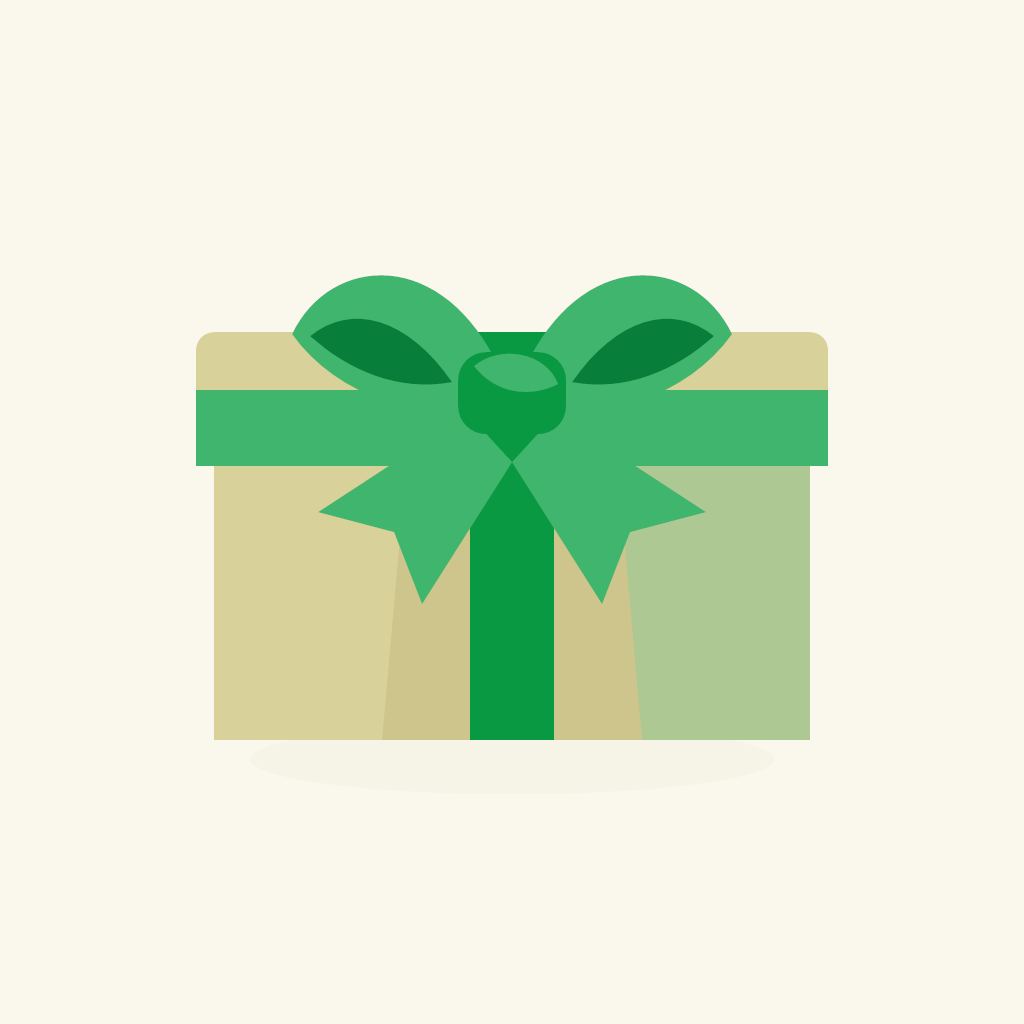
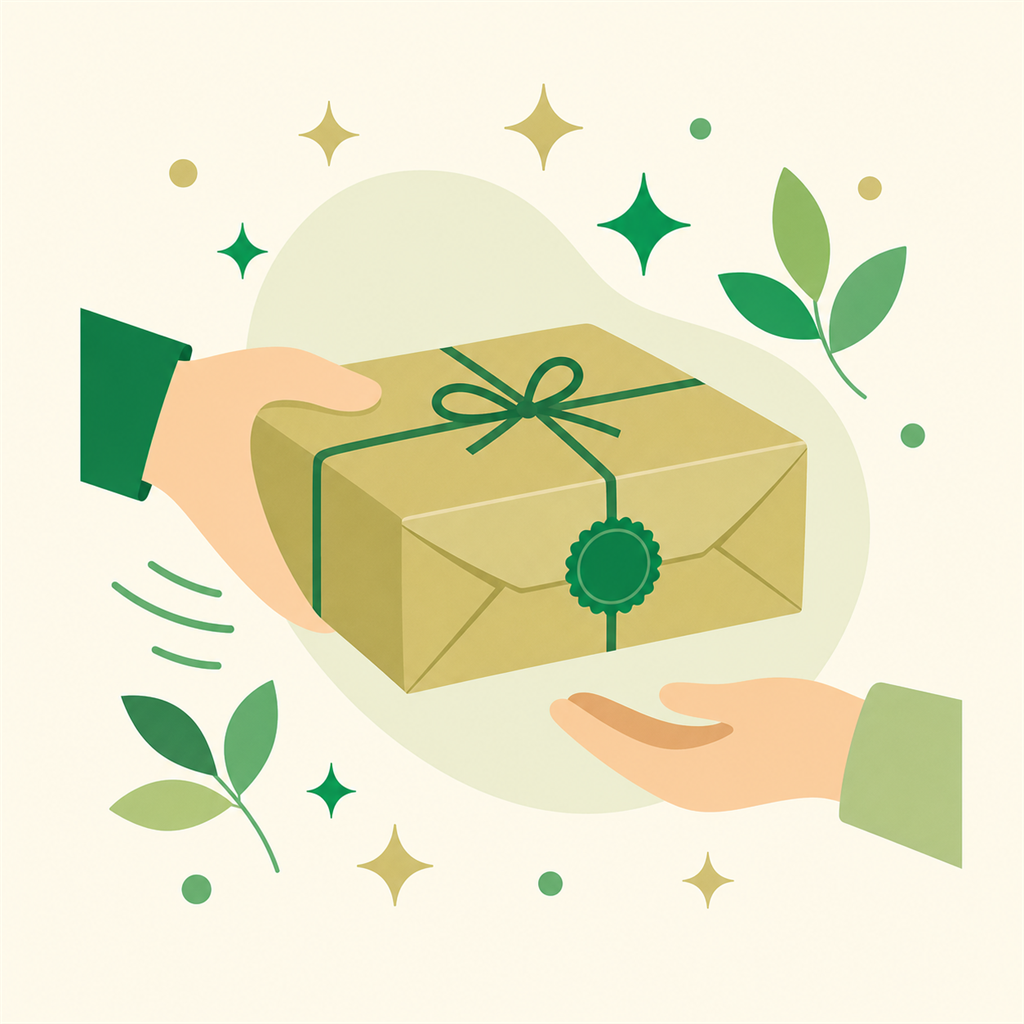
横展開ウェーブ2(06-10): 利用フロー4化(STEP4再生可能)＋モック文字縮小＋仕組み番号→AI画像 ＋一時整理/アイコン案 split 3/3
Split from ebdc506 to keep each GitHub push request smaller. Approx blob payload: 16.26 MB.

diff --git a/lp_variants/10_studio_design/index.html b/lp_variants/10_studio_design/index.html
@@ -111,21 +111,21 @@ h1,h2,h3,h4,p,figure{margin:0;}
 .phone .notch{position:absolute;top:8px;left:50%;transform:translateX(-50%);width:96px;height:20px;background:#0a0a0f;border-radius:0 0 14px 14px;z-index:5;}
 .hero-mock::after{content:"";position:absolute;bottom:-26px;left:50%;transform:translateX(-50%);width:230px;height:36px;background:radial-gradient(ellipse,rgba(0,0,0,.5),transparent 70%);filter:blur(8px);}
 /* in-app UI (shared) */
-.app-bar{background:var(--navy);color:#fff;padding:30px 14px 11px;display:flex;align-items:center;justify-content:space-between;font-size:12px;font-weight:700;}
+.app-bar{background:var(--navy);color:#fff;padding:26px 12px 9px;display:flex;align-items:center;justify-content:space-between;font-size:10px;font-weight:700;}
 .app-bar .pin{display:flex;align-items:center;gap:6px;}
-.app-bar .pin .d{width:7px;height:7px;border-radius:50%;background:var(--royal);}
-.app-bar .ic{display:flex;gap:11px;color:#9fb0d8;}
-.app-bar .ic svg{width:15px;height:15px;}
-.feed{padding:12px;display:flex;flex-direction:column;gap:11px;background:var(--grey);flex:1;overflow:hidden;}
-.feed-h{font-size:11px;font-weight:700;color:var(--muted);display:flex;justify-content:space-between;}
-.lst{background:#fff;border-radius:13px;overflow:hidden;box-shadow:0 2px 8px rgba(10,15,43,.07);}
-.lst img{width:100%;height:78px;object-fit:cover;}
-.lst .body{padding:9px 11px;}
-.lst .ttl{font-size:11.5px;font-weight:700;color:var(--ink);line-height:1.4;}
-.lst .meta{display:flex;justify-content:space-between;align-items:center;margin-top:7px;}
-.lst .price{font-size:14px;font-weight:800;color:var(--royal);}
-.lst .tag{font-size:9.5px;font-weight:700;color:#fff;background:var(--royal);border-radius:5px;padding:2px 7px;}
-.lst .left{font-size:9.5px;color:var(--muted);}
+.app-bar .pin .d{width:6px;height:6px;border-radius:50%;background:var(--royal);}
+.app-bar .ic{display:flex;gap:10px;color:#9fb0d8;}
+.app-bar .ic svg{width:13px;height:13px;}
+.feed{padding:10px;display:flex;flex-direction:column;gap:9px;background:var(--grey);flex:1;overflow:hidden;}
+.feed-h{font-size:9.5px;font-weight:700;color:var(--muted);display:flex;justify-content:space-between;}
+.lst{background:#fff;border-radius:12px;overflow:hidden;box-shadow:0 2px 8px rgba(10,15,43,.07);}
+.lst img{width:100%;height:70px;object-fit:cover;}
+.lst .body{padding:8px 9px;}
+.lst .ttl{font-size:10.5px;font-weight:700;color:var(--ink);line-height:1.4;}
+.lst .meta{display:flex;justify-content:space-between;align-items:center;margin-top:6px;}
+.lst .price{font-size:12px;font-weight:800;color:var(--royal);}
+.lst .tag{font-size:9px;font-weight:700;color:#fff;background:var(--royal);border-radius:5px;padding:2px 6px;}
+.lst .left{font-size:9px;color:var(--muted);}
 @media(max-width:880px){
   .hero-grid{grid-template-columns:1fr;gap:46px;}
   .phone{transform:none;}
@@ -189,6 +189,7 @@ h1,h2,h3,h4,p,figure{margin:0;}
 .mech-row:not(:last-child){border-bottom:1px solid var(--line);}
 .mech-row.rev .mtext{order:2;}
 .mn{font-size:clamp(40px,6vw,72px);font-weight:800;color:#e3eafc;line-height:1;letter-spacing:-.02em;}
+.mmark{width:80px;height:80px;border-radius:16px;object-fit:cover;margin-bottom:6px;box-shadow:0 10px 26px rgba(10,15,43,.18);}
 .mtext h3{font-size:clamp(21px,2.6vw,28px);font-weight:800;margin:8px 0 16px;line-height:1.45;}
 .mtext p{font-size:15.5px;color:var(--muted);}
 .mfig{display:flex;justify-content:center;}
@@ -209,25 +210,31 @@ h1,h2,h3,h4,p,figure{margin:0;}
 .flow-hint{text-align:center;font-size:12.5px;color:var(--muted-d);margin-top:6px;display:flex;align-items:center;justify-content:center;gap:7px;}
 .flow-hint svg{width:15px;height:15px;}
 /* in-mock variants */
-.scr-list{background:var(--royal);color:#fff;padding:32px 14px 12px;font-size:12px;font-weight:700;}
+.scr-list{background:var(--royal);color:#fff;padding:26px 12px 10px;font-size:10px;font-weight:700;}
 .cap-screen{flex:1;display:flex;flex-direction:column;align-items:center;justify-content:center;gap:14px;padding:24px 18px;background:linear-gradient(170deg,#0e1740,#1A2D6B);color:#fff;text-align:center;}
 .cap-screen img{width:120px;}
 .cap-screen .ct{font-size:13px;font-weight:700;}
 .cap-screen .cb{font-size:11px;font-weight:700;color:#0a0f2b;background:var(--gold);border-radius:8px;padding:8px 18px;}
 .rec-screen{flex:1;background:#111;color:#fff;position:relative;display:flex;flex-direction:column;}
 .rec-screen img{width:100%;height:100%;object-fit:cover;position:absolute;inset:0;opacity:.85;}
-.rec-screen .recdot{position:absolute;top:14px;left:14px;display:flex;align-items:center;gap:6px;font-size:11px;font-weight:700;z-index:2;}
-.rec-screen .recdot .d{width:9px;height:9px;border-radius:50%;background:#ff4747;}
-.rec-screen .rectime{position:absolute;top:14px;right:14px;font-size:11px;font-weight:700;z-index:2;}
+.rec-screen .recdot{position:absolute;top:13px;left:13px;display:flex;align-items:center;gap:5px;font-size:9.5px;font-weight:700;z-index:2;}
+.rec-screen .recdot .d{width:8px;height:8px;border-radius:50%;background:#ff4747;}
+.rec-screen .rectime{position:absolute;top:13px;right:13px;font-size:9.5px;font-weight:700;z-index:2;}
 .play-screen{flex:1;background:#0a0f2b;color:#fff;display:flex;flex-direction:column;}
-.play-screen .video{position:relative;height:180px;background:#000;}
+.play-screen .video{position:relative;height:168px;background:#000;}
 .play-screen .video img{width:100%;height:100%;object-fit:cover;opacity:.9;}
 .play-screen .pbtn{position:absolute;inset:0;margin:auto;width:46px;height:46px;border-radius:50%;background:rgba(255,255,255,.9);display:flex;align-items:center;justify-content:center;}
 .play-screen .pbtn svg{width:18px;height:18px;color:var(--navy);margin-left:2px;}
-.play-screen .pcap{padding:14px 14px 16px;}
-.play-screen .pcap .pt{font-size:11px;color:#9fb0d8;font-weight:700;}
-.play-screen .pcap .pn{font-size:13.5px;font-weight:800;margin:6px 0 12px;}
-.play-screen .pcap .own{font-size:10.5px;font-weight:700;color:#0a0f2b;background:var(--gold);border-radius:6px;padding:5px 10px;display:inline-block;}
+.play-screen .pcap{padding:12px 12px 14px;}
+.play-screen .pcap .pt{font-size:10px;color:#9fb0d8;font-weight:700;}
+.play-screen .pcap .pn{font-size:11.5px;font-weight:800;margin:5px 0 8px;}
+.play-screen .pcap .pmeta{font-size:9.5px;font-weight:700;color:#9fb0d8;margin:-4px 0 10px;}
+.play-screen .pcap .pacts{display:flex;gap:8px;margin-bottom:10px;}
+.play-screen .pcap .pact{display:inline-flex;align-items:center;gap:5px;font-size:11px;font-weight:800;border-radius:8px;padding:6px 12px;}
+.play-screen .pcap .pact svg{width:12px;height:12px;}
+.play-screen .pcap .pact.play{background:var(--royal);color:#fff;}
+.play-screen .pcap .pact.share{background:rgba(255,255,255,.1);color:#cfe1ff;}
+.play-screen .pcap .own{font-size:10px;font-weight:700;color:#0a0f2b;background:var(--gold);border-radius:6px;padding:5px 10px;display:inline-block;}
 
 /* evidence – screenshots presented bare with conclusion headings (no card wrap) */
 .ev{padding:66px 0;border-bottom:1px solid var(--line);}
@@ -525,7 +532,7 @@ h1,h2,h3,h4,p,figure{margin:0;}
 
     <div class="mech-row">
       <div class="mtext">
-        <div class="mn serif">01</div>
+        <img class="mmark" src="assets/how1.png" alt="時間を先に売る概念のイメージ">
         <h3>時間を“先に”売る</h3>
         <p>完成した動画ではなく、まだ撮っていない未来の練習時間を出品します。ファンは時間枠を購入し、当日あなたはスマホで撮るだけ。撮れた映像が後から届きます。</p>
       </div>
@@ -534,16 +541,16 @@ h1,h2,h3,h4,p,figure{margin:0;}
 
     <div class="mech-row rev">
       <div class="mtext">
-        <div class="mn serif">02</div>
+        <img class="mmark" src="assets/how2.png" alt="中身は届くまで分からない概念のイメージ">
         <h3>中身は、届くまで分からない</h3>
-        <p>何が映るかは、封を開けるまで分かりません。思いがけず写る面白い瞬間も、神がかった一発も。届くのは中身の見えない一本の動画。だからファンは「何が届くか」にワクワクします。</p>
+        <p>何が映るかは、受け取るまで分かりません。思いがけず写る面白い瞬間も、神がかった一発も。届くのは中身の見えない一本の動画。だからファンは「何が届くか」にワクワクします。</p>
       </div>
-      <figure class="mfig"><img src="assets/mock_capsule.png" style="border-radius:16px;max-width:300px;" alt="封がされ、開けるまで中身が分からない一点ものの動画クリップのイラスト"></figure>
+      <figure class="mfig"><img src="assets/how2.png" style="border-radius:16px;max-width:300px;" alt="中身は届くまで分からない、一点ものの動画クリップのイメージ"></figure>
     </div>
 
     <div class="mech-row">
       <div class="mtext">
-        <div class="mn serif">03</div>
+        <img class="mmark" src="assets/how3.png" alt="世界に1つの概念のイメージ">
         <h3>届くのは、世界に1つ</h3>
         <p>同じ瞬間は二度と撮れません。落札者だけが持つ、一点もののデジタルグッズとして届きます。コピー対策の電子透かしで、所有が証明されます。</p>
       </div>
@@ -557,7 +564,7 @@ h1,h2,h3,h4,p,figure{margin:0;}
   <div class="wrap">
     <div class="sec-head on-dark">
       <span class="label on-dark">/ How it works</span>
-      <h2>出品から受け取りまで、5ステップ。</h2>
+      <h2>出品から受け取りまで、4ステップ。</h2>
       <p>横にスクロールして、販売者と購入者の流れを確認できます。</p>
     </div>
   </div>
@@ -570,14 +577,14 @@ h1,h2,h3,h4,p,figure{margin:0;}
       <div class="phone"><span class="notch"></span>
         <div class="phone-screen">
           <div class="scr-list">練習を出品</div>
-          <div class="feed" style="background:#fff;gap:13px;">
-            <div style="font-size:11px;font-weight:700;color:#5b6478;">日時</div>
-            <div style="font-size:14px;font-weight:800;color:#1c2330;">6/20(金) 19:00-21:00</div>
-            <div style="font-size:11px;font-weight:700;color:#5b6478;margin-top:4px;">1区間あたりの価格</div>
-            <div style="font-size:22px;font-weight:800;color:#0766F4;">¥300</div>
-            <div style="font-size:11px;font-weight:700;color:#5b6478;margin-top:4px;">区間数</div>
-            <div style="font-size:14px;font-weight:800;color:#1c2330;">720 区間</div>
-            <div style="margin-top:auto;background:#0766F4;color:#fff;text-align:center;font-size:13px;font-weight:800;border-radius:11px;padding:12px;">出品する</div>
+          <div class="feed" style="background:#fff;gap:10px;">
+            <div style="font-size:10px;font-weight:700;color:#5b6478;">日時</div>
+            <div style="font-size:11.5px;font-weight:800;color:#1c2330;">6/20(金) 19:00-21:00</div>
+            <div style="font-size:10px;font-weight:700;color:#5b6478;margin-top:3px;">1区間あたりの価格</div>
+            <div style="font-size:18px;font-weight:800;color:#0766F4;">¥300</div>
+            <div style="font-size:10px;font-weight:700;color:#5b6478;margin-top:3px;">区間数</div>
+            <div style="font-size:11.5px;font-weight:800;color:#1c2330;">720 区間</div>
+            <div style="margin-top:auto;background:#0766F4;color:#fff;text-align:center;font-size:11px;font-weight:800;border-radius:10px;padding:11px;">出品する</div>
           </div>
         </div>
       </div>
@@ -610,31 +617,22 @@ h1,h2,h3,h4,p,figure{margin:0;}
         </div>
       </div>
     </div>
-    <!-- 4 開封 -->
+    <!-- 4 受け取り（届いた瞬間が再生できる状態） -->
     <div class="flow-step">
       <div class="step-meta"><span class="sn">4</span><span class="who buy">購入者</span></div>
-      <div class="stitle">後日、封を開けて受け取る</div>
-      <div class="phone"><span class="notch"></span>
-        <div class="phone-screen">
-          <div class="cap-screen">
-            <img src="assets/mock_capsule.png" alt="封がされた、開ける前の一点ものの動画クリップ">
-            <div class="ct">あなたの区間が届きました</div>
-            <div class="cb">タップして開ける</div>
-          </div>
-        </div>
-      </div>
-    </div>
-    <!-- 5 受け取り -->
-    <div class="flow-step">
-      <div class="step-meta"><span class="sn">5</span><span class="who buy">購入者</span></div>
-      <div class="stitle">世界に1つの瞬間を受け取る・所有する</div>
+      <div class="stitle">後日届いた、世界に1つの瞬間を再生・所有する</div>
       <div class="phone"><span class="notch"></span>
         <div class="phone-screen">
           <div class="play-screen">
-            <div class="video"><img src="assets/mock_practice.png" alt="届いた練習動画"><div class="pbtn"><svg viewBox="0 0 24 24" fill="currentColor"><path d="M8 5v14l11-7z"/></svg></div></div>
+            <div class="video"><img src="assets/mock_practice.png" alt="届いて再生できる状態の練習動画"><div class="pbtn"><svg viewBox="0 0 24 24" fill="currentColor"><path d="M8 5v14l11-7z"/></svg></div></div>
             <div class="pcap">
               <div class="pt">19:47:30 - 19:47:40 ダンス練習</div>
               <div class="pn">思いがけず笑ってしまった瞬間</div>
+              <div class="pmeta">中身は届くまで分からない</div>
+              <div class="pacts">
+                <span class="pact play"><svg viewBox="0 0 24 24" fill="currentColor"><path d="M8 5v14l11-7z"/></svg>再生</span>
+                <span class="pact share"><svg viewBox="0 0 24 24" fill="none" stroke="currentColor" stroke-width="2"><circle cx="18" cy="5" r="3"/><circle cx="6" cy="12" r="3"/><circle cx="18" cy="19" r="3"/><path d="M8.6 13.5l6.8 4M15.4 6.5l-6.8 4"/></svg>シェア</span>
+              </div>
               <span class="own">世界で一つだけ、あなたが所有</span>
             </div>
           </div>
@@ -644,7 +642,7 @@ h1,h2,h3,h4,p,figure{margin:0;}
   </div>
   <div class="wrap"><p class="flow-hint">
     <svg viewBox="0 0 24 24" fill="none" stroke="currentColor" stroke-width="2"><path d="M5 12h14"/><path d="M13 6l6 6-6 6"/></svg>
-    横にスクロールできます（販売者＝1・3／購入者＝2・4・5）</p></div>
+    横にスクロールできます（販売者＝1・3／購入者＝2・4）</p></div>
 </section>
 
 <!-- ============ VALUE / 4つの理由 (blue band, borderless columns) ============ -->

diff --git a/lp_variants/09_hokuyobank/index.html b/lp_variants/09_hokuyobank/index.html
@@ -68,21 +68,21 @@
   }
   .phone::after{content:"";position:absolute;left:50%;bottom:-34px;width:78%;height:34px;
     transform:translateX(-50%);background:radial-gradient(50% 50% at 50% 50%,rgba(1,73,152,.30),rgba(1,73,152,0) 70%);filter:blur(2px)}
-  .phone-scr{width:100%;height:100%;background:#fff;border-radius:28px;overflow:hidden;display:flex;flex-direction:column;font-size:11px}
+  .phone-scr{width:100%;height:100%;background:#fff;border-radius:28px;overflow:hidden;display:flex;flex-direction:column;font-size:10px}
   .phone-notch{position:absolute;top:11px;left:50%;transform:translateX(-50%);width:120px;height:22px;background:#0c1118;border-radius:0 0 14px 14px;z-index:2}
-  .scr-top{background:var(--navy);color:#fff;padding:26px 14px 12px;display:flex;align-items:center;justify-content:space-between}
-  .scr-top b{font-size:13px;letter-spacing:.04em}
-  .scr-top .bal{font-size:10px;opacity:.85}
-  .scr-list{padding:10px 12px;display:flex;flex-direction:column;gap:9px;overflow:hidden;background:#f6fafe;flex:1}
-  .lcard{display:flex;gap:9px;align-items:center;background:#fff;border-radius:12px;padding:8px;border:1px solid var(--line)}
-  .lthumb{width:48px;height:48px;border-radius:9px;object-fit:cover;flex:none}
+  .scr-top{background:var(--navy);color:#fff;padding:24px 12px 10px;display:flex;align-items:center;justify-content:space-between}
+  .scr-top b{font-size:11px;letter-spacing:.04em}
+  .scr-top .bal{font-size:9px;opacity:.85}
+  .scr-list{padding:9px 10px;display:flex;flex-direction:column;gap:7px;overflow:hidden;background:#f6fafe;flex:1}
+  .lcard{display:flex;gap:8px;align-items:center;background:#fff;border-radius:11px;padding:7px;border:1px solid var(--line)}
+  .lthumb{width:44px;height:44px;border-radius:9px;object-fit:cover;flex:none}
   .lmeta{min-width:0}
-  .lmeta .t{font-weight:800;font-size:11px;color:var(--ink);white-space:nowrap;overflow:hidden;text-overflow:ellipsis}
-  .lmeta .s{font-size:9.5px;color:var(--ink2)}
+  .lmeta .t{font-weight:800;font-size:10px;color:var(--ink);white-space:nowrap;overflow:hidden;text-overflow:ellipsis}
+  .lmeta .s{font-size:9px;color:var(--ink2)}
   .lprice{margin-left:auto;text-align:right;flex:none}
-  .lprice .p{font-weight:900;color:var(--accent);font-size:12px}
-  .lprice .u{font-size:8.5px;color:var(--ink2)}
-  .scr-cta{margin:2px 12px 12px;background:var(--yellow);color:var(--navy);font-weight:900;text-align:center;border-radius:999px;padding:9px;font-size:12px}
+  .lprice .p{font-weight:900;color:var(--accent);font-size:11px}
+  .lprice .u{font-size:8px;color:var(--ink2)}
+  .scr-cta{margin:2px 10px 10px;background:var(--yellow);color:var(--navy);font-weight:900;text-align:center;border-radius:999px;padding:8px;font-size:11px}
 
   .hero-badge{
     position:absolute;top:-10px;right:-6px;width:124px;height:124px;border-radius:50%;
@@ -120,8 +120,8 @@
   .mech{padding:72px 0;background:#fff}
   .mech-list{display:grid;grid-template-columns:repeat(3,1fr);gap:40px;margin-top:46px}
   .mech-item{text-align:left}
+  .mech-item .mech-ico{width:80px;height:80px;object-fit:contain;margin-bottom:14px}
   .mech-item .step{display:flex;align-items:center;gap:10px;color:var(--accent);font-weight:900;font-size:15px;margin-bottom:10px}
-  .mech-item .step .n{width:30px;height:30px;border-radius:50%;background:var(--pale2);color:var(--navy);display:flex;align-items:center;justify-content:center;font-size:15px;flex:none}
   .mech-item h3{font-size:20px;font-weight:900;color:var(--navy);margin-bottom:8px}
   .mech-item p{color:var(--ink2);font-size:15px}
   .mech-flow{display:flex;align-items:center;gap:14px;flex-wrap:wrap;justify-content:center;margin-top:48px;color:var(--navy);font-weight:800}
@@ -384,17 +384,20 @@
     </div>
     <div class="mech-list">
       <div class="mech-item">
-        <div class="step"><span class="n">1</span>時間を“先に”売る</div>
+        <img class="mech-ico" src="assets/how1.png" alt="時間を先に売るイメージ">
+        <div class="step">時間を“先に”売る</div>
         <h3>未来の練習を出品</h3>
         <p>「6/20(金) 19:00-21:00 / ¥300」のように、これからの練習の時間枠を価格をつけて出品します。完成品をつくる必要はありません。</p>
       </div>
       <div class="mech-item">
-        <div class="step"><span class="n">2</span>中身は運しだい</div>
+        <img class="mech-ico" src="assets/how2.png" alt="中身は届くまで分からないイメージ">
+        <div class="step">中身は運しだい</div>
         <h3>封を開けるまで分からない</h3>
         <p>ファンは中身を知らずに購入。当日スマホで撮った映像が、封を開けるまで何が映るか分からない“ランダムグッズ”として届きます。</p>
       </div>
       <div class="mech-item">
-        <div class="step"><span class="n">3</span>世界に1つ</div>
+        <img class="mech-ico" src="assets/how3.png" alt="世界に1つのイメージ">
+        <div class="step">世界に1つ</div>
         <h3>その人だけの一点もの</h3>
         <p>届くのは、買った人だけが持つ一点もののデジタルグッズ。同じ瞬間は二つとありません。</p>
       </div>
@@ -403,7 +406,7 @@
       <span>時間枠を出品</span><span class="arr">→</span>
       <span>ファンが購入（中身は不明）</span><span class="arr">→</span>
       <span>当日スマホで撮るだけ</span><span class="arr">→</span>
-      <span>封を開けて受け取る</span>
+      <span>世界に1つのクリップを再生・シェア</span>
     </div>
   </div>
 </section>